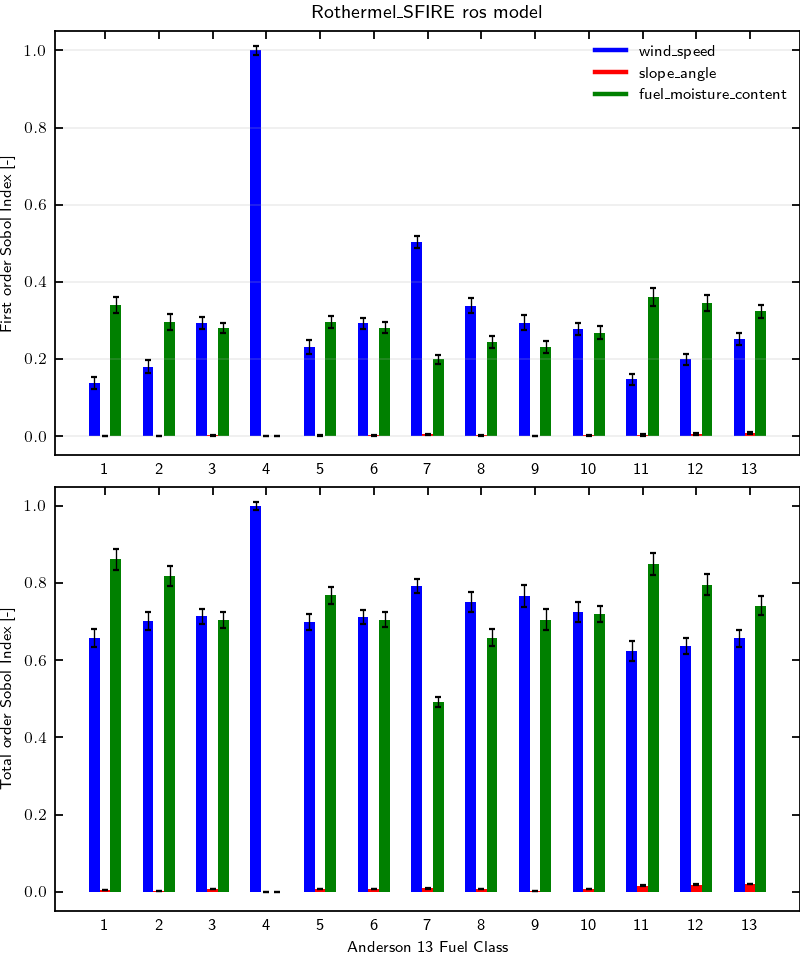
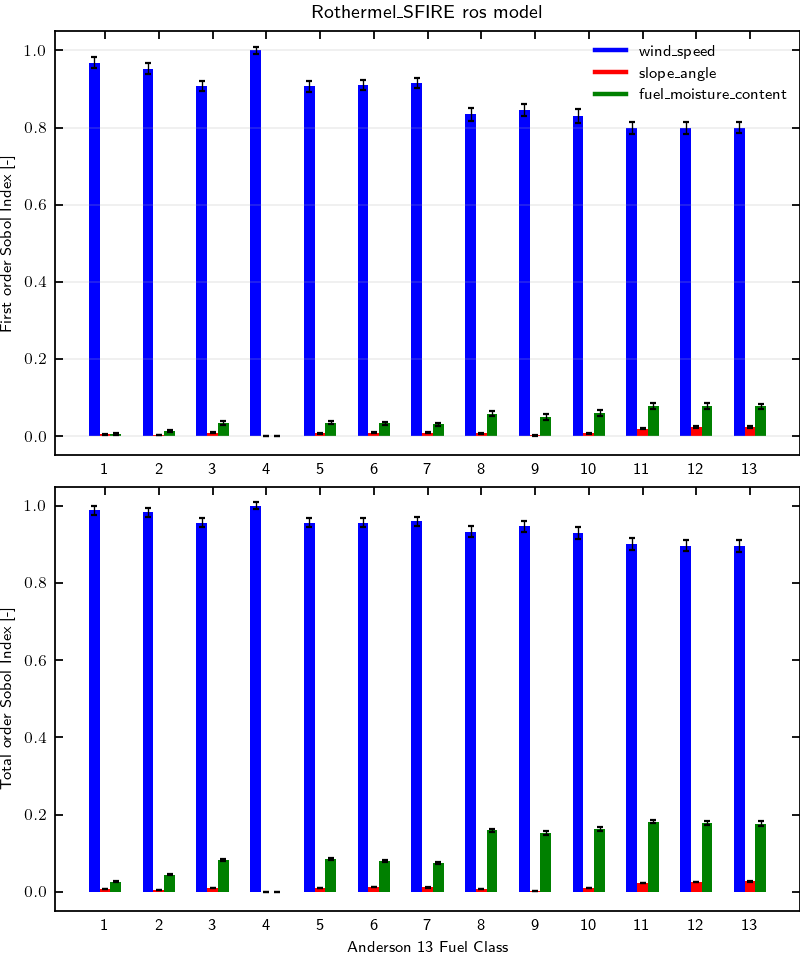
update benchmark results for rothermel sensitivity with Anderson

diff --git a/docs/worflows_0D_models/rate_of_spread_models/sensitivity/Rothermel/Rothermel.md b/docs/worflows_0D_models/rate_of_spread_models/sensitivity/Rothermel/Rothermel.md
@@ -11,10 +11,10 @@ nav_order: 1
 ## Workflow information
 
 - Documentation page:
-- Version: 1.0
+- Version: 1.1
 - Date of record creation: 2024-11-22
 - Date of upload to firebench: 2024-11-22
-- Version/tag/commit firebench: 0.3.0a1
+- Version/tag/commit firebench: 0.3.2a1
 
 ## Configuration
 <!-- Add specific input details for the model/data you are using -->
@@ -29,14 +29,12 @@ nav_order: 1
 ## Results
 
 <!-- Fill in with your results -->
-**Fig.1** shows first and total order Sobol indices for Rothermel_SFIRE rate of spread model for each class of the Anderson 13 fuel model.
-The wind (blue bars) significantly affects for categories 4, 7, 8, and 9. 
-As Fuel Category 4 has its own submodel for the rate of spread using only wind as an environmental variable, it is expected to get 100% of the variance explained by the wind parameter.
-The fuel moisture (green bars) is the most important parameter for categories 1, 2, 5, 11, 12, and 13.
-Wind and slope are equally important for fuel categories 3, 6, and 10. 
-The slope (red bars) is negligible across all categories.
+**Fig.1** shows the first and total order Sobol indices for the Rothermel_SFIRE rate of the spread model for each class of the Anderson 13 fuel model.
+The wind (blue bars) is the most important parameter, with more than 80% of the variance explained.
+Then, the fuel moisture content (green bars) is important for fuel categories representing coarser fuels, which explains around 10% of the rate of spread variance.
+The slope (red bars) is of relatively minor importance for Rothermel and does not significantly affect the rate of spread in the range of input chosen.
 
-The total order indices are higher than the first order indices, indicating coupling effects between variables.
+The total order indices are higher than the first order indices, indicating coupling effects between variables, mostly between wind and moisture.
 
 <div style="text-align: center;">
     <img src="sobol_index.png" alt="Sobol index" style="width: 100%; max-width: 1200px;"/>
@@ -58,7 +56,7 @@ The total order indices are higher than the first order indices, indicating coup
[9 lines of base64/hex data omitted]
 <!-- end of firebench-hash-list -->

diff --git a/CHANGELOG.md b/CHANGELOG.md
@@ -11,11 +11,17 @@ and this project adheres to [Semantic Versioning](https://semver.org/).
 - import_wudapt_fuel_model wrapper function to simplify import of WUDAPT urban fuel model
 - Sensitivity workflow scripts for rate of spread models using WUDAPT urban fuel model.
 
+### Fixed
+- Fuel moisture of extinction unit is `dimensionless` instead of `percent` in Anderson13.json
+
 ### Documentation
 - Add benchmark results for:
   - Rate of spread model sensitivity using WUDAPT urban fuel model:
     - Hamada 1
     - Hamada 2
+- Update benchmark results for:
+  - Rate of spread model sensitivity using Anderson 13 fuel model:
+    - Rothermel_SFIRE
 
 ## [0.3.1] - 2024 / 12 / 03
 ### Added
